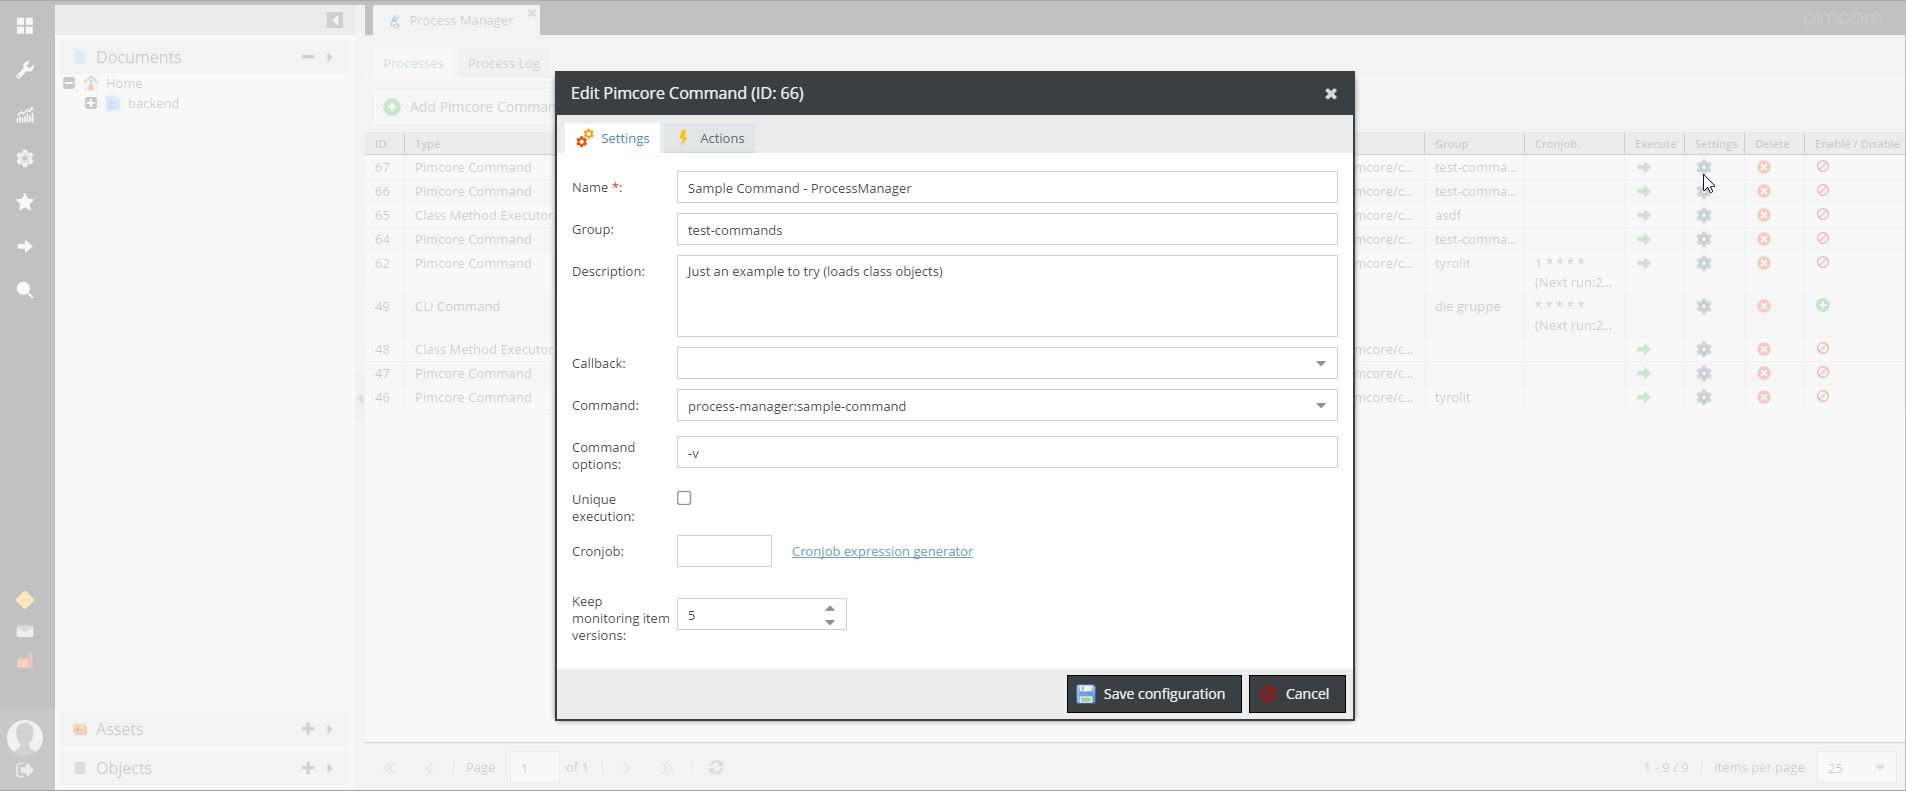
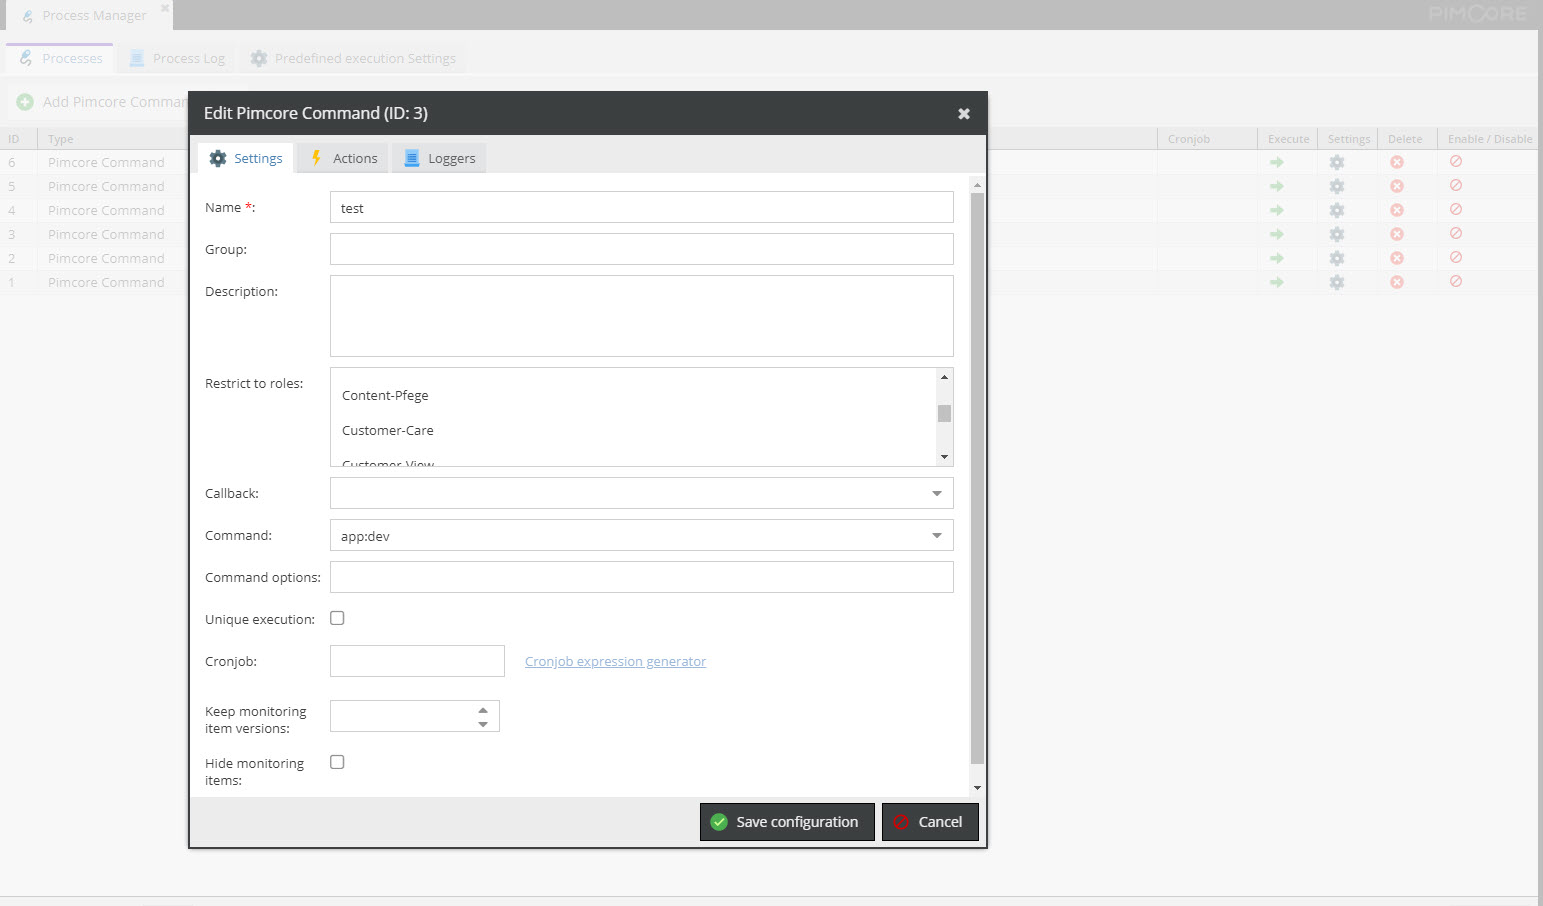
Add Logger for E-Mail recipients https://github.com/elements-at/ProcessManager/issues/8

diff --git a/README.md b/README.md
@@ -8,6 +8,7 @@ are available (custom settings which the user can define for runtime execution) 
 ***Key features:***
 - Execute custom script in background
 - Report the current execution state to the customer in the Pimcore admin
+- Define loggers (email, file, application logger)... per process
 - View detailed debug log information in the Pimcore admin
 - Scripts are monitored and you will receive an email if a job fails
 - Provide custom actions after a job has finished (e.g download a file)
@@ -28,6 +29,9 @@ Job execution state:
 
 Job configuration:
 ![process-manager-job-management](./doc/img/process-manager-job-management.jpg)
+
+Define Loggers per process / job:
+![process-manager-job-management](./doc/img/loggers.png)
 
 Callback settings (user defined runtime settings):
 ![callback-settings](./doc/img/callback-settings.jpg)
